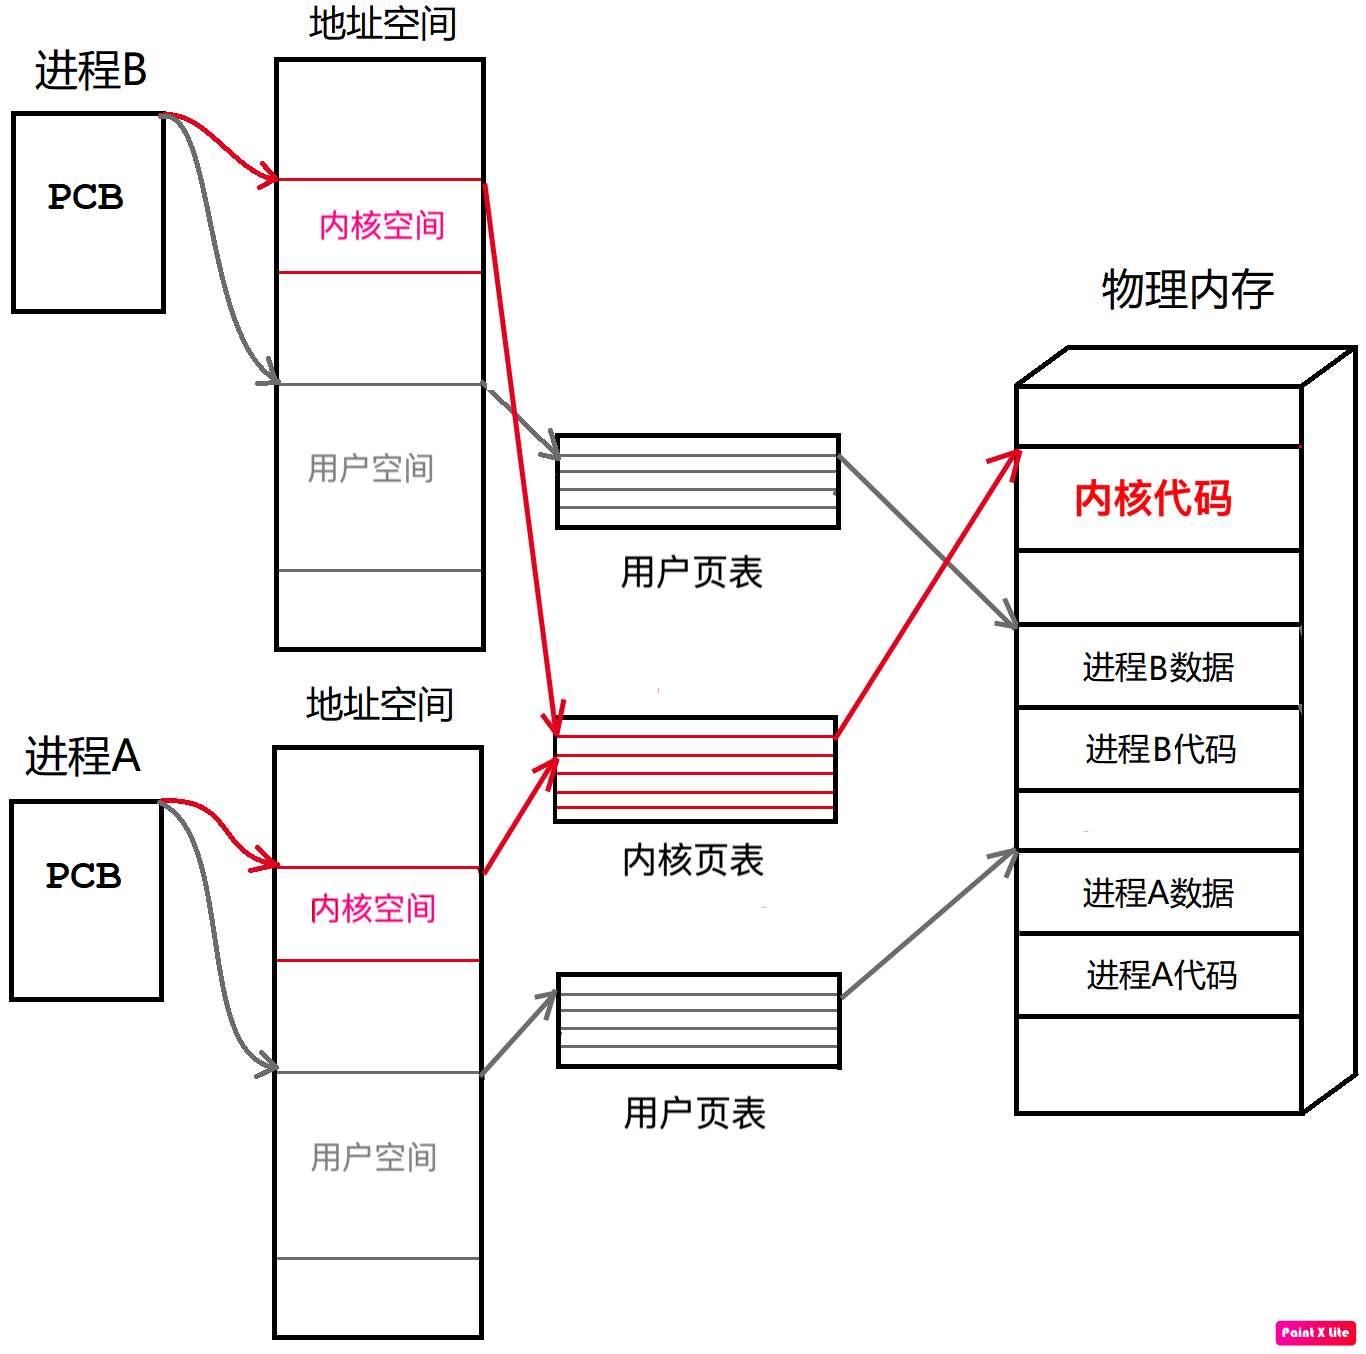
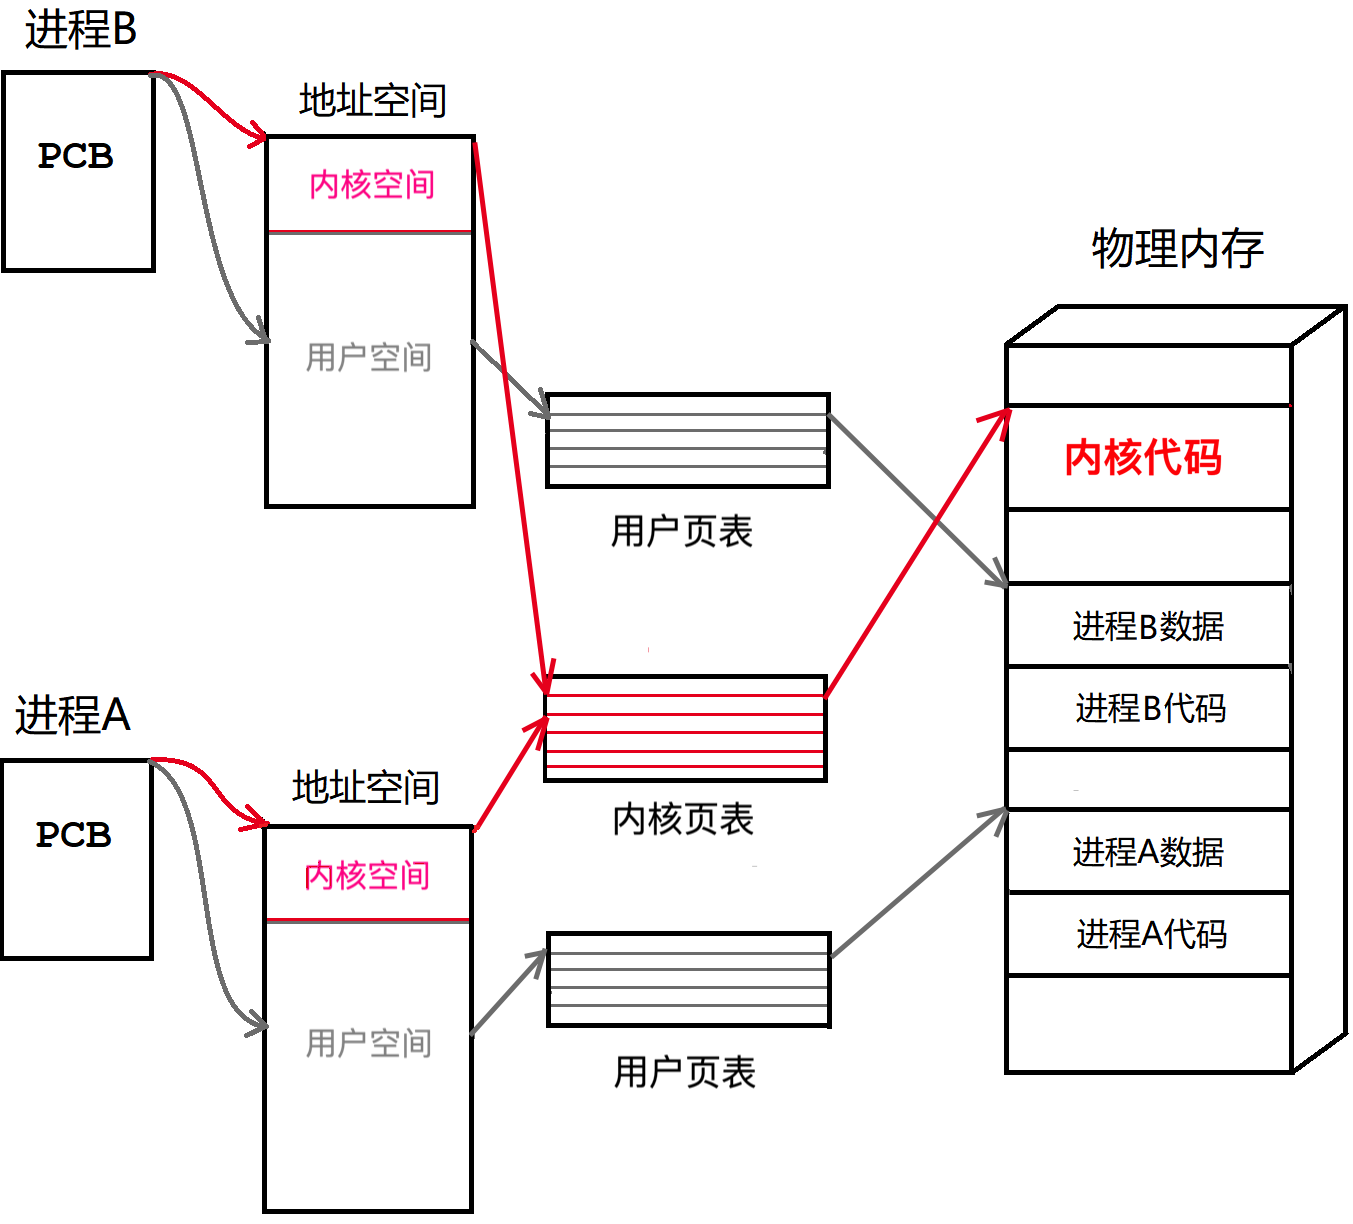
常规提交

Changed region(s): [[0.0, 0.0, 1.0, 0.9935], [0.9313, 0.9624, 0.9933, 1.0]]

diff --git a/Linux/08-进程信号.md b/Linux/08-进程信号.md
@@ -429,7 +429,25 @@ int sigpending(sigset_t *set);
 ```
 
 ```c
+int main()
+{
+    sigset_t set, pset;
+    sigemptyset(&set);
+    
+    sigaddset(&set, SIGINT);
+    sigprocmask(SIG_BLOCK, &set, nullptr);
 
+    int cnt = 0;
+    while (true)
+    {
+        sigpending(&pset);
+        showBlockset(&pset);
+        
+        if (cnt++ == 10)
+            sigprocmask(SIG_UNBLOCK, &set, nullptr);
+        sleep(1);
+    }
+}
 ```
 
 ##### 读取/修改信号处理集 sigaction
@@ -439,6 +457,13 @@ int sigpending(sigset_t *set);
 ```c
 #include <signal.h>
 int sigaction(int signum, const struct sigaction *act, struct sigaction *oldact);
+
+struct sigaction {
+    void   (*sa_handler)(int);
+    sigset_t sa_mask;
+    int      sa_flags;
+   	// ...
+};
 ```
 
 | 参数     | 解释                                         |
@@ -447,11 +472,37 @@ int sigaction(int signum, const struct sigaction *act, struct sigaction *oldact)
 | `act`    | 设置进内核的信号处理集，不需要可以设为`NULL` |
 | `oldact` | 获取内核中的信号处理集，不需要可以设为`NULL` |
 
+当某个信号的处理方法正在被调用时，系统会暂时将该信号屏蔽，等处理完该信号时，再对该信号解除阻塞。
+
+如果想在处理某个信号的同时，将其他信号也作屏蔽，则可以使用`sa_mask`字段。
+
 ```c
+void handler(int signo)
+{
+    std::cout << "get a signal: " << signo << std::endl;
+    sigset_t set;
+    sigprocmask(SIG_BLOCK, nullptr, &set);
 
+    for (int sig = 1; sig < 32; sig++)
+    {
+        if (sigismember(&set, sig)) cout << '1';
+        else cout << '0';
+    }
+    cout << endl;
+}
+
+int main()
+{
+    struct sigaction act;
+    act.sa_handler = handler;
+    act.sa_flags = 0;
+    sigaddset(&act.sa_mask, 1);
+    sigaction(SIGINT, &act, nullptr);
+    
+    raise(SIGINT);
+    return 0;
+}
 ```
-
- 当某个信号的处理方法正在被调用时，系统会暂时将该信号屏蔽，等处理完该信号时，再对该信号解除阻塞。
 
 &nbsp;
 
@@ -459,51 +510,52 @@ int sigaction(int signum, const struct sigaction *act, struct sigaction *oldact)
 
 ### 3.1 信号处理的时机
 
-> 原先我们一直在讲进程会在合适的时候，处理未决的信号。现在，是时候谈谈“什么是合适的时候”和“为什么是合适的时候”了。
-
-为什么是合适的时候？
-
 信号的产生是异步的，信号产生时当前进程可能正在进行更重要的工作，信号必须要被延时处理，具体要取决于操作系统和进程的状态。
 
-什么是合适的时候？
+> 进程会在合适的时候处理未决的信号，那什么是合适的时候呢？
 
-因为信号是被保存在进程的 pcb 的 pending 位图中的，操作系统检测信号位图的时候就是处理信号的时候。**当进程从内核态返回到用户态的时候，会进行信号的检测和处理工作**。
+**当进程从内核态切换到用户态的时候，进程会在系统的指导下，会进行信号的检测和处理**。
 
 #### 内核态和用户态的概念
 
-进程在执行代码时会不断的切换用户态和内核态，执行用户代码时处于用户态，执行操作系统的内核代码时处于内核态。
+进程在执行代码时会不断的切换用户态和内核态，<u>执行用户代码时处于用户态，执行内核代码时处于内核态</u>。
 
 - 执行用户态的代码时，进程必须为用户态，必须受到操作系统的监管。
-- 执行内核级的代码时，进程必须为内核态，提升身份权限以执行内核代码。再次执行用户代码时必须转为用户态，否则可能影响操作系统的安全。
+- 执行内核级的代码时，进程必须为内核态，提升身份权限以执行内核代码。再次执行用户代码时必须转为用户态，否则可能影响系统安全。
 
-<img src="08-进程信号.assets/用户态内核态转化图示.png" alt="用户态内核态转化图示" style="zoom: 40%;" />
+<img src="08-进程信号.assets/用户态内核态转化图示.png" style="zoom: 40%;" />
 
-当处理进程代码中的调用系统接口的时候，进程会从用户态转变为内核态，以进入内核执行内核代码。系统调用结束后会返回到用户代码中继续执行用户代码，进程也会从内核态转变为用户态。
+> 调用系统调用，会发生进程状态转变，并不是只有这一种情况才会发生状态转变。
 
-> 调用系统调用接口，只是进程执行状态转变的一种体现，并不是只有这一种情况才会发生状态转变。
+程序运行起来，用户和内核的代码数据都是要被加载到内存中的。
 
-在系统中，用户和内核的代码和数据都是要被加载到内存中的，进程地址空间分为用户空间和内核空间，分别通过用户级页表和系统级页表映射到对应的物理内存上。
+进程地址空间分为用户空间和内核空间，分别通过用户级页表和内核级页表映射到用户代码数据和内核代码数据。
 
-<img src="08-进程信号.assets/用户页表和内核页表图示示例.png" style="zoom: 33%;" />
+<img src="08-进程信号.assets/用户页表和内核页表图示示例.png" style="zoom: 40%;" />
 
-用户页表每个进程都有有一份，而内核页表只有一份，被所有进程空间共享。这样既保证了进程独立性，也保证了每个进程都能访问到内核代码。 
+**用户页表每个进程都有有一份，而内核页表只有一份，被所有进程空间共享**。这样既保证了进程独立性，也保证了每个进程都能访问到内核代码。 
 
-### 3.2 信号处理的步骤
+> CPU中的CR3寄存器中的数值表示代码执行级别。如果执行级别不够，CPU中状态寄存器出错，进而系统发送信号终止进程。
 
-当进程从内核态返回到用户态的时候，操作系统会进行信号的检测和处理工作。具体如下，以调用系统接口为例：
+### 3.2 信号处理的过程
+
+当进程从内核态返回到用户态的时候，会进行信号的检测和处理工作。以调用系统接口为例：
 
 1. 用户代码中调用系统接口，进程由用户态进入内核态；
-2. 系统接口代码调用完毕后，检测进程信号是否需要处理，
-   1. 如果信号的处理动作是默认或忽略，直接处理并返回即可。
-   2. 如果信号的处理动作是自定义捕捉，则需要返回用户态，调用用户自定义的`handler`方法。
-   3. **自定义捕捉方法执行完毕后，不可直接返回用户代码，需返回内核态，调用`sys_sigreturn`接口返回到用户代码中**。
+2. 系统接口调用完毕后，检测并处理信号；
+3. 如果信号处理动作是默认或忽略，直接处理并返回。如果是自定义捕捉，需返回用户态，调用handler方法。
+4. **自定义捕捉方法执行后，不能直接返回用户代码，需返回内核态，调用`sys_sigreturn`返回用户代码**。
 
-<img src="08-进程信号.assets/进程进行信号检测处理的具体流程图示.png" style="zoom:40%;" />
+<img src="08-进程信号.assets/进程进行信号检测处理的具体流程图示.png" style="zoom:50%;" />
 
-进程进行信号检测处理的具体流程如上图所示，可高度抽象简化成莫比乌斯环或无穷大的符号：
+- 执行信号处理自定义方法时，必须返回用户态。如果使用内核态执行用户代码，会对系统安全造成威胁。
+- 信号处理完后，无法直接返回用户代码，因为处理信号时用户代码执行到什么位置是不清楚的，需要通过`sys_sigreturn()`返回对应位置。
 
-<img src="08-进程信号.assets/高度抽象进程信号处理过程图示.png" style="zoom:60%;" />
+进程进行信号检测处理的具体流程如上图所示，类似无穷大符号：
 
-每次经过分界线都是一次状态的切换，而交叉点可以看作信号检测并处理的点。
+<img src="08-进程信号.assets/抽象进程信号处理过程图示.png" style="zoom:70%;" />
 
-> 用户的代码只能由用户态执行，内核态时进程具有的权限较高，能够但不允许执行用户代码，因为用户代码不安全。
+> 每次经过分界线都是一次状态的切换，而交叉点可以看作信号检测并处理的点。
+
+从处理逻辑来看，信号的产生是异步的，信号的处理是同步的。进入内核态后处理信号，处理后返回用户代码，始终是一个执行流。
+
